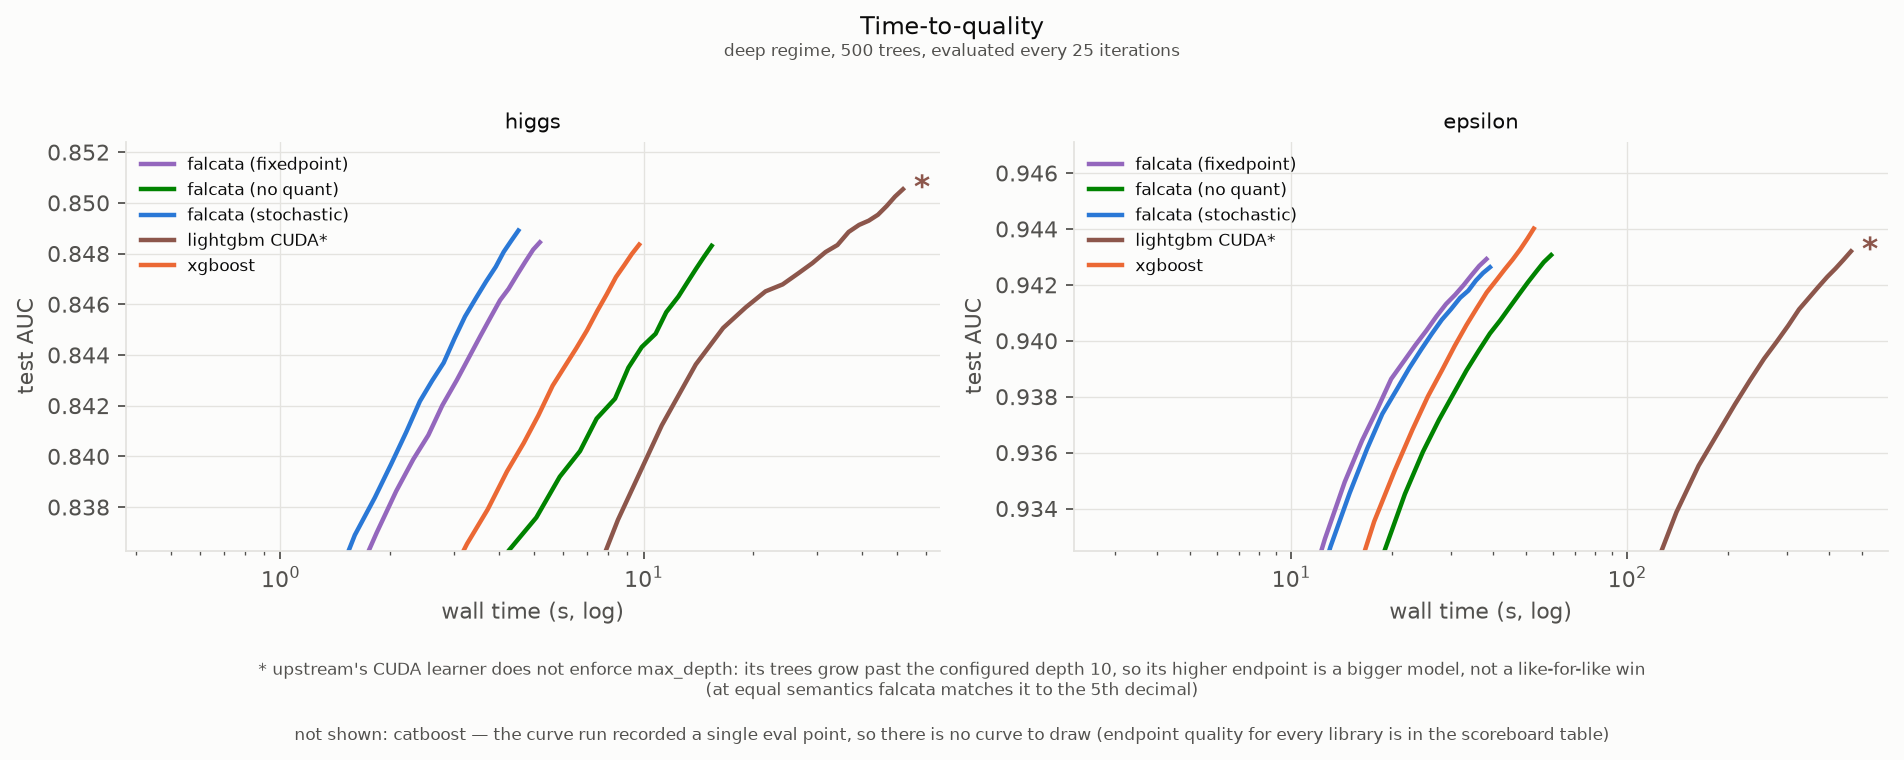
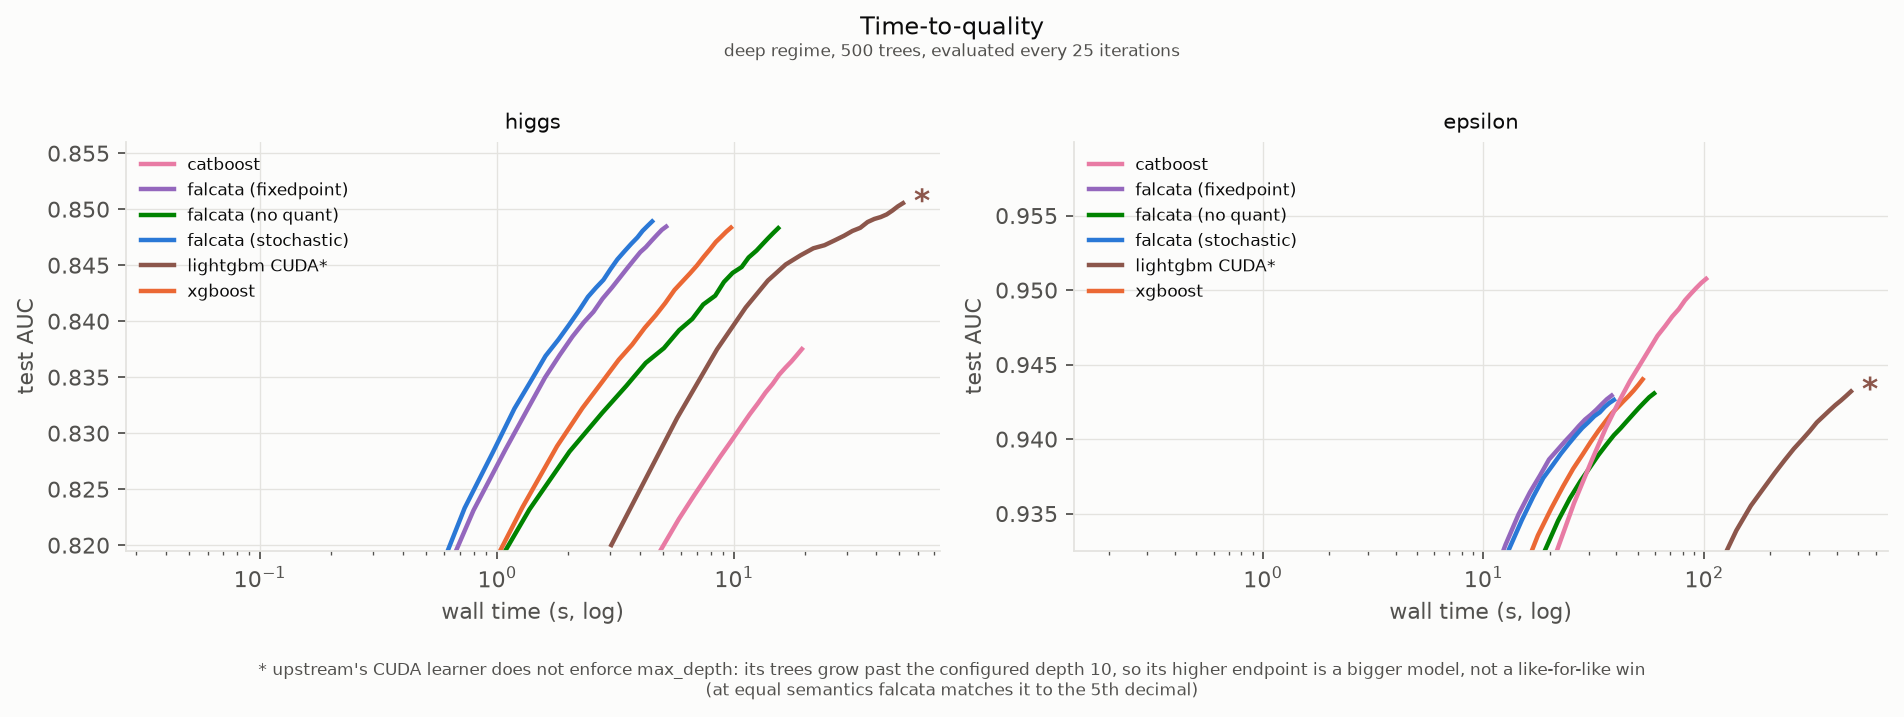
docs: draw catboost on the time-to-quality chart
The re-recorded curve cells give catboost real 21-point AUC curves, so the
chart's "not shown: catboost" footnote disappears and the epsilon panel now
shows it as the quality leader (.9508) instead of the text having to assert
it. The one cell that still records no curve is numerai-example: catboost's
curve run aborts on host memory there (the timed cells stand); recorded as a
failure, nothing previously drawn regresses.

diff --git a/docs/performance.md b/docs/performance.md
@@ -64,13 +64,14 @@ trains a deeper, more expressive model than the one configured — which is also
 why its curve sits so far right. Given the same semantics (`max_depth=-1`)
 falcata matches it to the 5th decimal at 1.7–3.7× the speed.
 
-*XGBoost ends above falcata on epsilon* (.9440 vs .9429), and that one is
-simply real. It is an XGBoost-vs-LightGBM difference on this dataset rather
-than a falcata regression: `falcata-noquant` lands at .94307 against upstream's
+*XGBoost and CatBoost end above falcata on epsilon*, and that is simply real.
+It is a cross-family difference on this dataset rather than a falcata
+regression: `falcata-noquant` lands at .94307 against upstream LightGBM's
 .94320, so the two implementations of the same algorithm agree to 1e-4, and
-quantization costs a further ~4e-4 (§5). CatBoost is actually the quality
-leader on this cell at .95076, but it cannot be drawn — its curve run recorded
-a single eval point. Every endpoint is in the scoreboard table above.
+quantization costs a further ~4e-4 (§5). CatBoost is the quality leader on
+this cell (.9508) — visibly so on the chart — at 2.6× falcata's time; the
+frontier claim is about reaching each quality level first, which falcata does
+up to the point where its curves end.
 
 **Resources** — falcata's 4-bit rowdata + compact view keep it the smallest
 or tied-smallest footprint of the CUDA libraries, where CatBoost
